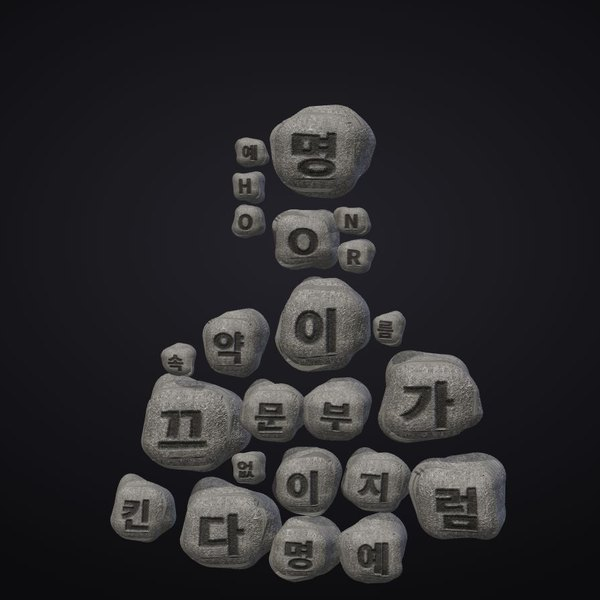
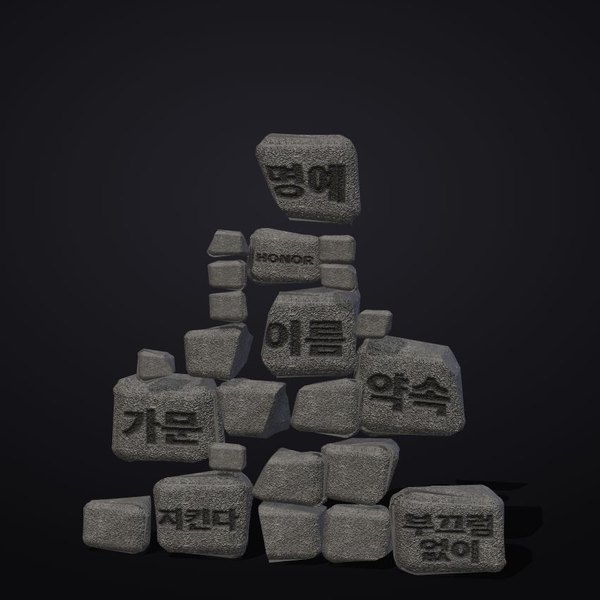
day-261119 블록마다 단어 하나, 금 스튜디오 반사, 돌 깎인 면·쌓아 내려앉기

Changed region(s): [[0.12, 0.15, 0.84, 0.99]]

diff --git a/day-261119/main.js b/day-261119/main.js
@@ -3,17 +3,17 @@ import { RoomEnvironment } from 'three/addons/environments/RoomEnvironment.js';
 import { RoundedBoxGeometry } from 'three/addons/geometries/RoundedBoxGeometry.js';
 import { PROFILE } from './bust.js?v=1';
 
-const VER = 17;
+const VER = 18;
 const PEOPLE = [
-  { k: 'kr', who: '준호 · 서울', mat: 'gold', words: ['승진', '인정', '연봉', '더빨리', '증명'], core: '성공', en: 'SUCCESS' },
-  { k: 'wa', who: '코피 · 아크라', mat: 'stone', words: ['이름', '약속', '가문', '부끄럼없이', '지킨다'], core: '명예', en: 'HONOR' },
+  { k: 'kr', who: '준호 · 서울', mat: 'gold', words: ['승진', '인정', '연봉', '더 빨리', '증명'], core: '성공', en: 'SUCCESS' },
+  { k: 'wa', who: '코피 · 아크라', mat: 'stone', words: ['이름', '약속', '가문', '부끄럼 없이', '지킨다'], core: '명예', en: 'HONOR' },
   { k: 'la', who: '루시아 · 보고타', mat: 'wax', words: ['그리움', '편지', '너', '다시', '안아줘'], core: '사랑', en: 'LOVE' },
   { k: 'no', who: '잉리드 · 오슬로', mat: 'glass', words: ['고요', '숲', '혼자', '멀리', '바람'], core: '자유', en: 'FREEDOM' },
   { k: 'in', who: '라젠드라 · 자이푸르', mat: 'wood', words: ['손주', '밥상', '집', '함께', '돌아와'], core: '가족', en: 'FAMILY' },
 ];
 const MATS = {
-  stone: { rough: .93, metal: 0, radius: .36, jag: .1, tint: .78, seg: 7, nrm: 2.2, ao: .55, inRough: .98 },
-  gold: { rough: .2, metal: 1, radius: .05, jag: 0, seg: 4, nrm: 1.4, ao: .4, inRough: .55 },
+  stone: { rough: .9, metal: 0, radius: .2, jag: .07, cuts: 7, tint: .55, hgt: .9, seg: 10, nrm: 3.2, ao: .6, inRough: .98 },
+  gold: { rough: .13, metal: 1, radius: .03, jag: 0, seg: 4, nrm: 1.6, ao: .35, inRough: .5, hgt: .05, flat: '#e6b04a', flatMix: .85, envI: 1.15, studio: true, phys: { clearcoat: .25, clearcoatRoughness: .08 } },
   wood: { rough: .62, metal: 0, radius: .05, jag: .004, seg: 4, nrm: 1.6, ao: .5, inRough: .8 },
   wax: { rough: .48, metal: 0, radius: .2, jag: .012, seg: 6, nrm: 1.2, ao: .3, inRough: .62, phys: { transmission: .18, thickness: 1.2, attenuationColor: new THREE.Color('#e88a9c'), attenuationDistance: .6, sheen: .4, sheenColor: new THREE.Color('#ffd0d8') } },
   glass: { rough: .16, metal: 0, radius: .12, jag: 0, seg: 5, nrm: .9, ao: -.35, inRough: .85, phys: { transmission: .9, thickness: .9, ior: 1.5, attenuationColor: new THREE.Color('#8fd6cf'), attenuationDistance: 1.4 } },
@@ -26,7 +26,14 @@ renderer.setPixelRatio(Math.min(2, devicePixelRatio));
 renderer.toneMapping = THREE.ACESFilmicToneMapping;
 const scene = new THREE.Scene();
 scene.environment = new THREE.PMREMGenerator(renderer).fromScene(new RoomEnvironment(), .04).texture;
-scene.environmentIntensity = .55;
+scene.environmentIntensity = .7;
+const STUDIO = (() => {
+  const sc = new THREE.Scene(), box = (w, h, x, y, z, c, i) => { const m = new THREE.Mesh(new THREE.PlaneGeometry(w, h), new THREE.MeshBasicMaterial({ color: new THREE.Color(c).multiplyScalar(i), side: THREE.DoubleSide })); m.position.set(x, y, z); m.lookAt(0, 0, 0); sc.add(m); };
+  sc.background = new THREE.Color(.015, .014, .012);
+  box(6, 3, 0, 6, 1, '#fff', 5); box(1.2, 6, -5, 1, 2, '#fff6e8', 6); box(1.2, 6, 5, .5, -1, '#ffe2b0', 3.5);
+  box(8, 1, 0, -1.5, 5, '#fff', 1.6); box(3, 3, 2, 2, 5, '#fff', 2.6); box(12, 5, -1, 3.5, 6, '#fff3dc', 1.3); box(10, 2, 0, -5, 0, '#3a2a18', 1);
+  return new THREE.PMREMGenerator(renderer).fromScene(sc, .02).texture;
+})();
 const camera = new THREE.PerspectiveCamera(28, 1, .1, 50);
 renderer.shadowMap.enabled = true; renderer.shadowMap.type = THREE.PCFSoftShadowMap;
 const key = new THREE.DirectionalLight(0xfff2e0, 2.6); key.position.set(-3, 4.5, 5); scene.add(key);
@@ -170,7 +177,7 @@ let seed = 1;
 const rnd = () => (seed = (seed * 16807) % 2147483647) / 2147483647;
 const noise3 = (x, y, z) => Math.sin(x * 3.1 + y * 1.7) * Math.cos(y * 2.3 - z * 1.9) + .5 * Math.sin(z * 4.7 + x * 2.9) + .12 * Math.sin(x * 7.3 - z * 6.1 + y * 5.3);
 
-const G = 8, CS = 256, AW = G * CS;
+const G = 4, CS = 512, AW = G * CS;
 function canvas2() { const c = document.createElement('canvas'); c.width = c.height = AW; return [c, c.getContext('2d', { willReadFrequently: true })]; }
 function atlas(P, base, glyphs) {
   const M = MATS[P.mat], [cc, g] = canvas2(), [mc, gm] = canvas2(), [sc, gs] = canvas2(), [lc, gl] = canvas2();
@@ -178,25 +185,31 @@ function atlas(P, base, glyphs) {
   for (let i = 0; i < G * G; i++) {
     const x = (i % G) * CS, y = Math.floor(i / G) * CS, sz = 380 + rnd() * 120;
     g.drawImage(base, rnd() * (base.width - sz), rnd() * (base.height - sz), sz, sz, x, y, CS, CS);
-    const ch = glyphs[i - 1];
-    if (!ch) continue;
-    const fs = /[가-힣]/.test(ch) ? 150 : 170, jx = (rnd() - .5) * 6, jy = (rnd() - .5) * 6;
-    gm.save(); gm.translate(x + CS / 2 + jx, y + CS / 2 + 8 + jy); gm.rotate((rnd() - .5) * .05);
-    gm.font = `900 ${fs}px 'Noto Sans KR'`; gm.textAlign = 'center'; gm.textBaseline = 'middle'; gm.fillStyle = '#fff'; gm.fillText(ch, 0, 0); gm.restore();
+    if (M.flat) { g.globalAlpha = M.flatMix; g.fillStyle = M.flat; g.fillRect(x, y, CS, CS); g.globalAlpha = 1; }
+    const txt = glyphs[i - 1];
+    if (!txt) continue;
+    const lines = txt.split(' '), lh = 1.08;
+    gm.save(); gm.translate(x + CS / 2 + (rnd() - .5) * 8, y + CS / 2 + 14); gm.rotate((rnd() - .5) * .04);
+    gm.textAlign = 'center'; gm.textBaseline = 'middle'; gm.fillStyle = '#fff';
+    gm.font = `900 100px 'Noto Sans KR'`;
+    const wmax = Math.max(...lines.map(l => gm.measureText(l).width)), fs = Math.min(260, 100 * CS * .8 / wmax, CS * .78 / (lines.length * lh));
+    gm.font = `900 ${fs}px 'Noto Sans KR'`;
+    lines.forEach((l, j) => gm.fillText(l, 0, (j - (lines.length - 1) / 2) * fs * lh));
+    gm.restore();
   }
-  gs.filter = `blur(${P.mat === 'stone' ? 2.2 : 1.6}px)`; gs.drawImage(mc, 0, 0); gl.filter = 'blur(7px)'; gl.drawImage(mc, 0, 0);
+  gs.filter = `blur(${P.mat === 'stone' ? 4 : 3}px)`; gs.drawImage(mc, 0, 0); gl.filter = 'blur(13px)'; gl.drawImage(mc, 0, 0);
   const col = g.getImageData(0, 0, AW, AW), m = gs.getImageData(0, 0, AW, AW).data, ml = gl.getImageData(0, 0, AW, AW).data, cd = col.data;
   const H = new Float32Array(AW * AW);
   for (let i = 0, n = AW * AW; i < n; i++) {
     const lum = (cd[i * 4] * .3 + cd[i * 4 + 1] * .59 + cd[i * 4 + 2] * .11) / 255;
     let mk = m[i * 4] / 255;
     if (P.mat === 'stone' && mk > .05 && mk < .95) mk = clamp(mk + (Math.random() - .5) * .35, 0, 1);
-    H[i] = lum * .25 - mk * .9;
+    H[i] = lum * (M.hgt ?? .25) - mk * .9;
   }
   const [nc, gn] = canvas2(), nd = gn.createImageData(AW, AW), [rc, gr] = canvas2(), rd = gr.createImageData(AW, AW);
   for (let y = 0; y < AW; y++) for (let x = 0; x < AW; x++) {
     const i = y * AW + x, l = H[y * AW + Math.max(0, x - 1)], r = H[y * AW + Math.min(AW - 1, x + 1)], u = H[Math.max(0, y - 1) * AW + x], d = H[Math.min(AW - 1, y + 1) * AW + x];
-    let nx = (l - r) * M.nrm * 6, ny = (d - u) * M.nrm * 6, nz = 1; const L = Math.hypot(nx, ny, nz); nx /= L; ny /= L; nz /= L;
+    let nx = (l - r) * M.nrm * 9, ny = (d - u) * M.nrm * 9, nz = 1; const L = Math.hypot(nx, ny, nz); nx /= L; ny /= L; nz /= L;
     nd.data[i * 4] = (nx * .5 + .5) * 255; nd.data[i * 4 + 1] = (ny * .5 + .5) * 255; nd.data[i * 4 + 2] = (nz * .5 + .5) * 255; nd.data[i * 4 + 3] = 255;
     const mk = m[i * 4] / 255, ao = ml[i * 4] / 255 * .6 + mk * .4, lum = (cd[i * 4] + cd[i * 4 + 1] + cd[i * 4 + 2]) / 765;
     const k = (M.ao >= 0 ? 1 - M.ao * ao : 1) * (M.tint || 1), add = M.ao < 0 ? -M.ao * mk * 255 : 0;
@@ -206,24 +219,27 @@ function atlas(P, base, glyphs) {
   }
   g.putImageData(col, 0, 0); gn.putImageData(nd, 0, 0); gr.putImageData(rd, 0, 0);
   const T = (c, srgb) => { const t = new THREE.CanvasTexture(c); if (srgb) t.colorSpace = THREE.SRGBColorSpace; t.anisotropy = 8; return t; };
-  const mat = new THREE.MeshPhysicalMaterial({ map: T(cc, true), normalMap: T(nc), normalScale: new THREE.Vector2(1, 1), roughnessMap: T(rc), roughness: 1, metalness: M.metal, envMapIntensity: M.metal ? 1.4 : 1, ...(M.phys || {}) });
+  const mat = new THREE.MeshPhysicalMaterial({ map: T(cc, true), normalMap: T(nc), normalScale: new THREE.Vector2(1, 1), roughnessMap: T(rc), roughness: 1, metalness: M.metal, envMapIntensity: M.envI || 1, ...(M.studio ? { envMap: STUDIO } : {}), ...(M.phys || {}) });
   return mat;
 }
 
 function buildBlock(cube, P, mat, cell) {
   const M = MATS[P.mat], sz = cube.s * .92, g = new RoundedBoxGeometry(sz, sz, sz, M.seg, sz * M.radius);
   const pos = g.attributes.position, nor = g.attributes.normal, uv = g.attributes.uv, off = rnd() * 9;
-  const sq = M.jag > .03 ? V(1 + (rnd() - .5) * .14, .84 + rnd() * .14, .88 + rnd() * .1) : V(1, 1, 1);
+  const sq = M.cuts ? V(1.08 + rnd() * .1, .76 + rnd() * .2, .95 + rnd() * .1) : V(1, 1, 1);
+  const planes = Array.from({ length: M.cuts || 0 }, () => { const n = V(rnd() - .5, rnd() - .5, (rnd() - .5) * .6 - .25).normalize(); return [n, sz * (.38 + rnd() * .1)]; });
   const cu = c => [(c % G) / G, 1 - (Math.floor(c / G) + 1) / G];
   for (let i = 0; i < pos.count; i++) {
     const x = pos.getX(i), y = pos.getY(i), z = pos.getZ(i), nz = nor.getZ(i), front = nz > .5;
     const [u0, v0] = cu(front ? cell : 0), fx = front ? x : Math.abs(nor.getX(i)) > .5 ? z : x, fy = Math.abs(nor.getY(i)) > .5 ? z : y;
     uv.setXY(i, u0 + clamp(fx / sz + .5, .015, .985) / G, v0 + clamp(fy / sz + .5, .015, .985) / G);
-    const fq = M.jag > .03 ? 1.5 : 2.4, d = M.jag * sz * noise3(x / sz * fq + off, y / sz * fq, z / sz * fq - off) * (front ? .45 : 1);
-    pos.setXYZ(i, (x + nor.getX(i) * d) * sq.x, (y + nor.getY(i) * d) * sq.y, (z + nor.getZ(i) * d) * sq.z);
+    const fq = M.jag > .03 ? 1.5 : 2.4, d = (M.jag * noise3(x / sz * fq + off, y / sz * fq, z / sz * fq - off) + (M.cuts ? .012 * noise3(x / sz * 9 - off, y / sz * 9 + off, z / sz * 9) : 0)) * sz * (front ? .45 : 1);
+    const q = V((x + nor.getX(i) * d) * sq.x, (y + nor.getY(i) * d) * sq.y, (z + nor.getZ(i) * d) * sq.z);
+    for (const [n, o] of planes) { const e = q.dot(n) - o; if (e > 0) q.addScaledVector(n, -e); }
+    pos.setXYZ(i, q.x, q.y, q.z);
   }
-  g.computeVertexNormals();
-  const m = new THREE.Mesh(g, mat); m.castShadow = m.receiveShadow = true;
+  g.computeVertexNormals(); g.computeBoundingBox();
+  const m = new THREE.Mesh(g, mat); m.castShadow = m.receiveShadow = true; cube.block = m;
   m.rotation.set((rnd() - .5) * .06, (rnd() - .5) * .08, (rnd() - .5) * .06); return m;
 }
 
@@ -253,18 +269,24 @@ function packCubes(prof) {
 function buildPerson(P, img, base) {
   const grp = new THREE.Group(), cubes = packCubes(PROFILE[P.k]);
   cubes.sort((a, b) => b.iy + b.n * U / 2 - (a.iy + a.n * U / 2) || a.ix - b.ix);
-  const glyphs = [...(P.core + P.en + P.words.join('') + P.core + P.en)].filter(ch => ch.trim());
+  const texts = [P.core, P.en, ...P.words], cell = new Map();
+  const big = [...cubes].sort((a, b) => b.n - a.n || b.iy - a.iy).slice(0, texts.length).sort((a, b) => b.iy - a.iy || a.ix - b.ix);
+  big.forEach((cb, j) => cell.set(cb, j + 1));
+  let spare = texts.length + 1;
+  cubes.forEach(cb => { if (!cell.has(cb)) { cell.set(cb, spare < G * G ? spare : 0); spare = spare + 1 < G * G ? spare + 1 : texts.length + 1; } });
   const tex = new THREE.Texture(img); tex.colorSpace = THREE.SRGBColorSpace; tex.anisotropy = 8; tex.needsUpdate = true;
-  const pm = paperMat(tex), bm = atlas(P, base, glyphs.slice(0, Math.min(cubes.length, G * G - 1)));
+  const pm = paperMat(tex), bm = atlas(P, base, texts);
   cubes.forEach((cb, k) => {
     const node = new THREE.Group();
     node.position.set(cb.ix + (rnd() - .5) * .03, cb.iy + (rnd() - .5) * .02, -cb.s / 2 + (rnd() - .5) * .14 + (cb.n === 1 ? .05 : 0));
     node.rotation.set((rnd() - .5) * .05, (rnd() - .5) * .22, (rnd() - .5) * .06);
     const net = buildNet(cb, pm); net.castShadow = net.receiveShadow = true;
-    node.add(net, buildBlock(cb, P, bm, k < G * G - 1 ? k + 1 : 0));
+    node.add(net, buildBlock(cb, P, bm, cell.get(cb)));
     cb.node = node; grp.add(node);
   });
-  return { P, grp, cubes, pm, ending: 0 };
+  const floor = Math.min(...cubes.map(c => c.node.position.y - c.s / 2)) - .01;
+  const fl = new THREE.Mesh(new THREE.PlaneGeometry(9, 5), new THREE.ShadowMaterial({ opacity: .5 })); fl.rotation.x = -Math.PI / 2; fl.position.set(0, floor, -.4); fl.receiveShadow = true; grp.add(fl);
+  return { P, grp, cubes, pm, ending: 0, floor };
 }
 
 const world = new THREE.Group(); scene.add(world);
@@ -292,6 +314,17 @@ async function load(i) {
 PEOPLE.forEach((P, i) => { const b = document.createElement('button'); b.textContent = P.who.split(' · ')[1]; b.onclick = () => load(i); ui.people.append(b); });
 document.getElementById('again').onclick = () => load(cur);
 
+function settle(p) {
+  p.settled = true;
+  const bs = p.cubes.map(c => { const bb = c.block.geometry.boundingBox, n = c.node; return { c, x: n.position.x, z: n.position.z, hx: (bb.max.x - bb.min.x) / 2, hz: (bb.max.z - bb.min.z) / 2, lo: bb.min.y + c.block.position.y, hi: bb.max.y + c.block.position.y, y: n.position.y }; });
+  bs.sort((a, b) => a.y + a.lo - (b.y + b.lo));
+  const placed = [];
+  for (const b of bs) {
+    let rest = p.floor;
+    for (const q of placed) if (Math.abs(b.x - q.x) < (b.hx + q.hx) * .82 && Math.abs(b.z - q.z) < (b.hz + q.hz) * .95) rest = Math.max(rest, q.top);
+    b.c.ty = rest - b.lo + .003; b.top = b.c.ty + b.hi; placed.push(b);
+  }
+}
 const peeled = p => p.cubes.reduce((a, c) => a + c.p[0] + c.p[1], 0) / (p.cubes.length * 2);
 function finale(p) {
   p.ending = clock.elapsedTime; p.cubes.forEach(c => c.p[0] = c.p[1] = 1);
@@ -339,6 +372,14 @@ renderer.setAnimationLoop(() => {
       if (p.ending) { c.mesh.position.y = -.3 * fade * fade; c.mesh.visible = fade < 1; c.mesh.castShadow = fade < .5; }
     }
     if (p.ending) p.pm.opacity = 1 - fade;
+    if (t > 1.3) {
+      if (!p.settled) settle(p);
+      for (const c of p.cubes) {
+        const n = c.node;
+        if (n.position.y > c.ty) { c.vy = (c.vy || 0) + 9 * dt; n.position.y = Math.max(c.ty, n.position.y - c.vy * dt); if (n.position.y === c.ty && c.vy > .4) { rustle(.08); c.vy = 0; } }
+        else n.position.y += (c.ty - n.position.y) * k;
+      }
+    }
   }
   renderer.render(scene, camera);
 });

diff --git a/day-261119/index.html b/day-261119/index.html
@@ -25,6 +25,6 @@
 <nav id="people"></nav>
 <div id="cap"><span id="who"></span></div>
 <button id="again">다시 싸기</button>
-<script type="module" src="main.js?v=17"></script>
+<script type="module" src="main.js?v=18"></script>
 </body>
 </html>
